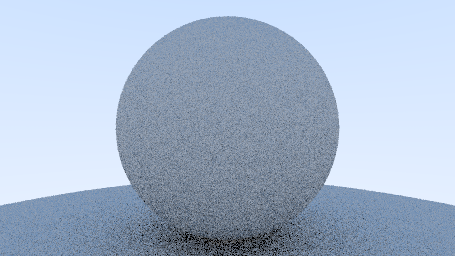
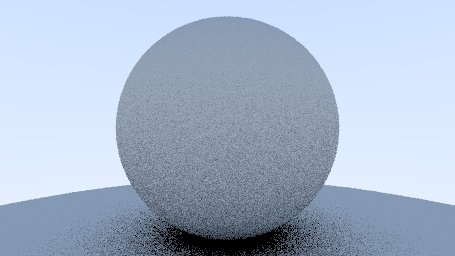
hemisphere diffuse

diff --git a/src/lib.rs b/src/lib.rs
@@ -23,6 +23,14 @@ fn rand_unit_v3() -> V3 {
     let z = theta.cos();
     V3(x, y, z)
 }
+fn rand_hemisphere(normal: V3) -> V3 {
+    let v = rand_unit_v3();
+    if normal.dot(v) > 0. {
+        v
+    } else {
+        -v
+    }
+}
 
 pub struct World {
     objects: GeomList,
@@ -103,10 +111,10 @@ impl World {
         if depth <= 0 {
             return V3(0., 0., 0.);
         }
-        let hit = self.objects.hit(ray, 0.01, 5.);
+        let hit = self.objects.hit(ray, 0.0001, 10.);
         if let Some(hit) = hit {
-            let way = hit.normal + rand_unit_v3();
-            self.ray_color(Ray { pos: hit.pos, way: way }, depth - 1) * 0.5
+            let way = hit.normal + rand_hemisphere(hit.normal);
+            self.ray_color(Ray { pos: hit.pos, way: way.norm() }, depth - 1) * 0.5
         } else {
             let t = 0.5 * (ray.way.1 + 1.);
             let back = V3(1., 1., 1.) * (1.0 - t) + V3(0.5, 0.7, 1.) * t;
